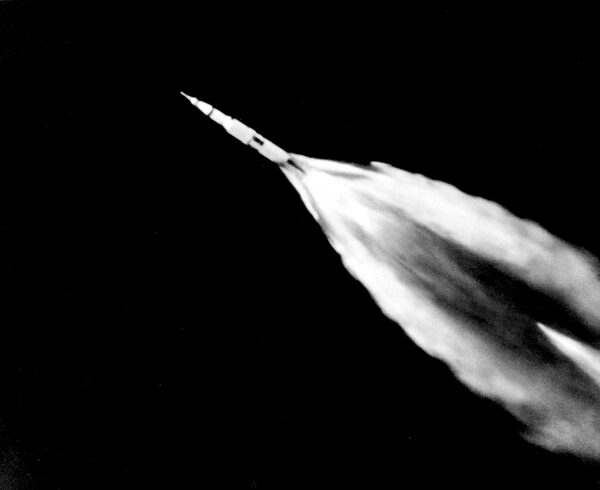
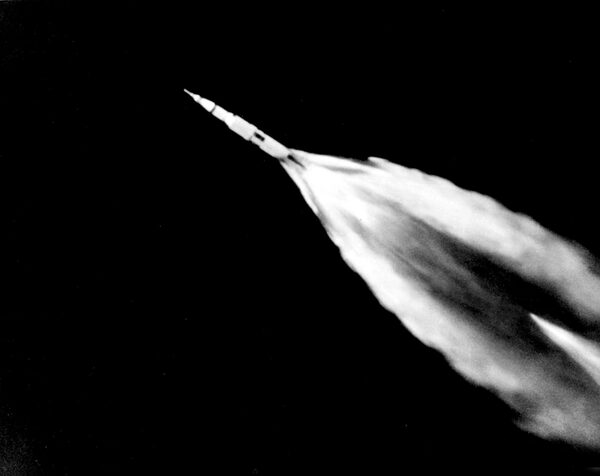
Candy: generated portraits for the organisational chart
Eleven portraits of fictional people, made with ChatGPT image generation
(thanks to Novoda) in a style inspired by Jake Lee (@jakelee_art), offered
under CC0. Matched to the cards by gender and age, one flipped so all face
the same way, and embedded narrower so each whole image fits its card.

The NASA photos go back to full frames: the renderer fits an image to its
box, so there's nothing to crop.

diff --git a/Repositories/README.md b/Repositories/README.md
@@ -10,7 +10,7 @@ Whole example sets, copied as their authors structured them. Canvases reference 
 
 Each set's `LICENSE` is its upstream's, copied on 10 Oct 2026; keep it with the set wherever the set is copied or bundled. A set is only added here with an open-source licence, and only the files that licence covers: Candy's stock photos (Unsplash and Pexels) and its brand logos are left out. In their place:
 
-- `Candy/Assets/nasa-*.jpg`, for the Apollo timeline: NASA photos AS11-40-5903, 6900556 and AS15-86-11603 from [NASA's image library](https://images.nasa.gov), public domain, cropped and resized;
-- `Candy/Assets/portrait-*.svg`, for the organisational chart: avatars drawn by [DiceBear](https://www.dicebear.com)'s Lorelei style, by Lisa Wischofsky, CC0 1.0.
+- `Candy/Assets/nasa-*.jpg`, for the Apollo timeline: NASA photos AS11-40-5903, 6900556 and AS15-86-11603 from [NASA's image library](https://images.nasa.gov), public domain, resized;
+- `Candy/Assets/portrait-*.jpg`, for the organisational chart: eleven portraits of fictional people, made for this repository with ChatGPT image generation and offered under CC0 1.0. With thanks to [Novoda](https://www.novoda.com) for the image generation, and to [Jake Lee (@jakelee_art)](https://www.instagram.com/jakelee_art/), whose dreamy gradient portraits inspired the style.
 
 The brand logos on the stickers stencil have no replacement, so those four image nodes point at files that aren't here.
